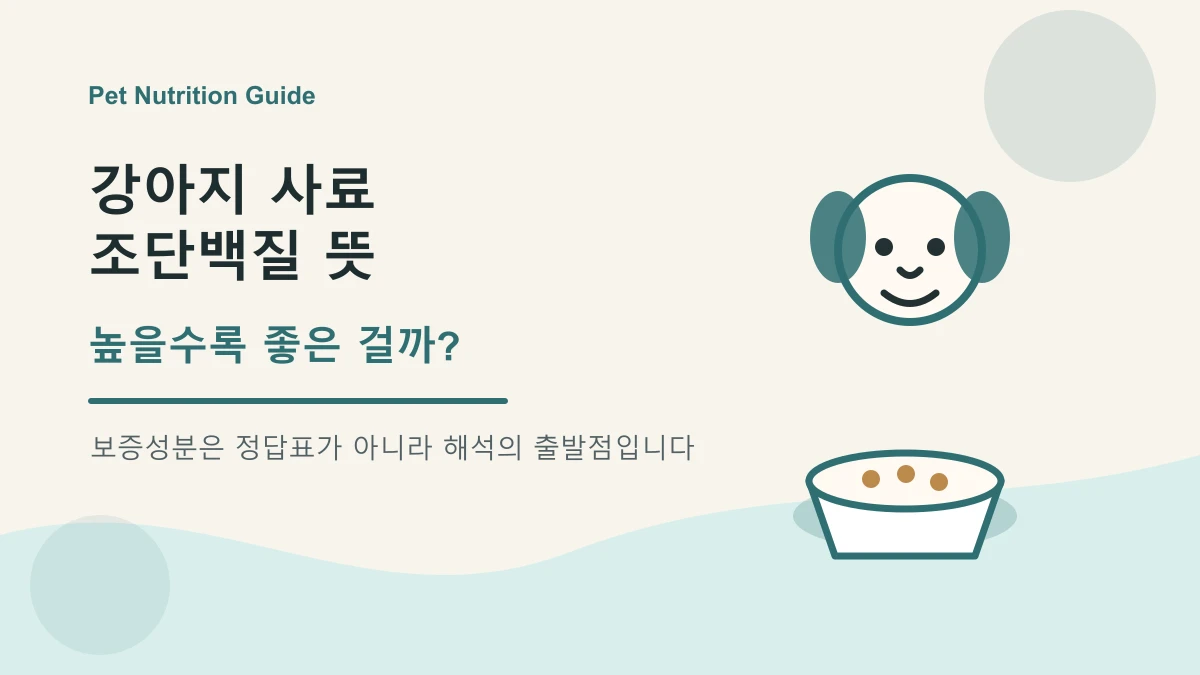
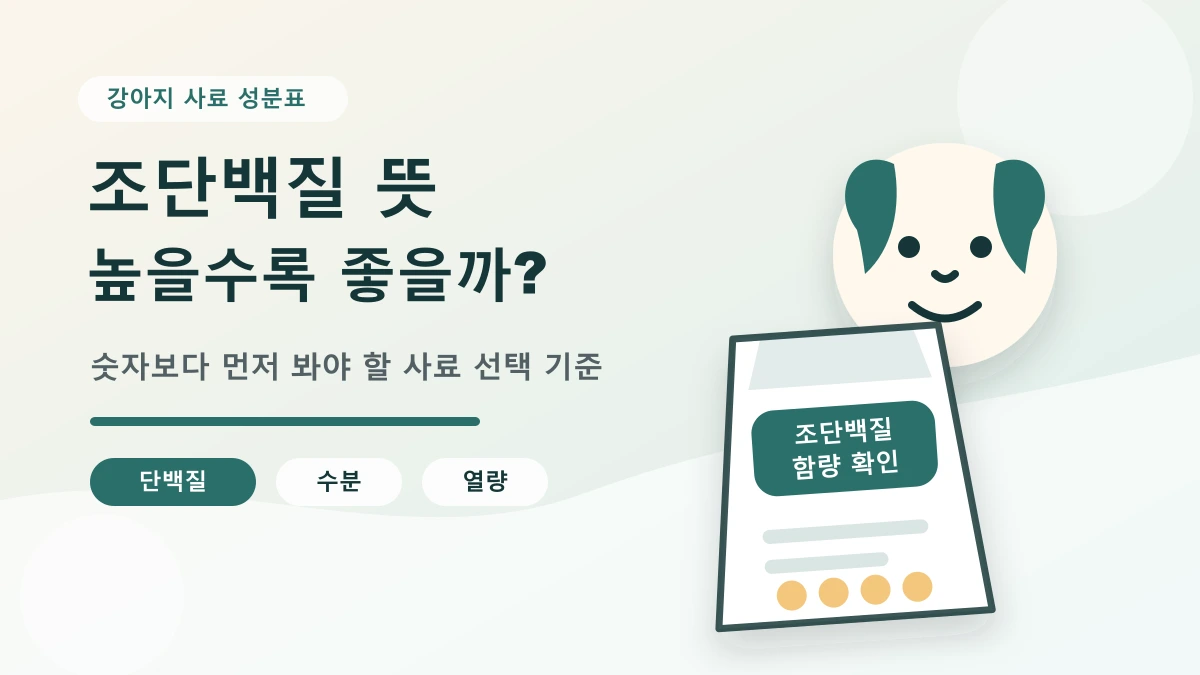
Improve crude protein article intros and thumbnails

diff --git a/src/content/blog/cat-food-crude-protein-meaning-beyond-percentage.md b/src/content/blog/cat-food-crude-protein-meaning-beyond-percentage.md
@@ -12,11 +12,11 @@ draft: false
 
 ## 도입부
 
-고양이 사료를 고를 때 보호자가 가장 먼저 보는 숫자 중 하나가 조단백질입니다. 고양이는 단백질이 중요한 동물이라는 말을 자주 듣기 때문에, 조단백질 함량이 높으면 더 좋은 사료처럼 느껴집니다. 실제로 단백질은 고양이의 근육, 피부, 털, 여러 신체 기능에 꼭 필요한 영양소입니다.
+고양이 사료를 고를 때 보호자의 눈은 자연스럽게 조단백질 숫자로 향합니다. 고양이는 단백질이 중요한 동물이라는 말을 자주 듣다 보니, 32%보다 38%가 더 좋아 보이고 습식 캔에 적힌 10% 안팎의 숫자는 괜히 부족해 보일 수 있습니다. 사료를 잘 고르고 싶은 마음이 클수록 숫자 하나에 마음이 흔들리기 쉽습니다.
 
-하지만 고양이 사료 조단백질 뜻을 제대로 이해하면 단백질 함량만 보고 사료를 고르는 것이 위험한 이유를 알 수 있습니다. 조단백질은 단백질 관련 성분을 분석해 표시한 비율이지, 사료 전체의 품질 점수는 아닙니다. 또 건식과 습식은 수분 함량이 크게 달라서 같은 기준으로 숫자를 비교하면 오해가 생기기 쉽습니다.
+하지만 고양이 사료 조단백질 뜻을 제대로 이해하면 단백질 함량만 보고 사료를 고르는 것이 왜 아쉬운 선택인지 보입니다. 조단백질은 단백질 관련 성분을 분석해 표시한 비율이지, 사료 전체의 품질 점수는 아닙니다. 또 건식과 습식은 수분 함량이 크게 달라서 같은 기준으로 숫자를 비교하면 오해가 생기기 쉽습니다.
 
-이 글은 건강한 고양이 보호자가 사료 라벨을 읽을 때 참고할 수 있는 일반 정보입니다. 신장 질환, 요로 문제, 당뇨, 비만, 반복 구토, 식욕 저하, 체중 감소가 있거나 장기 식단 변경이 필요하다면 보호자 판단만으로 고단백 또는 저단백 사료를 고르지 말고 수의사와 상담하세요.
+이 글에서는 고양이 사료 라벨에서 조단백질을 어떻게 읽어야 하는지, 그리고 수분·타우린·열량을 왜 함께 봐야 하는지 보호자 눈높이로 정리합니다. 건강한 고양이 보호자가 참고할 수 있는 일반 정보이며, 신장 질환, 요로 문제, 당뇨, 비만, 반복 구토, 식욕 저하, 체중 감소가 있거나 장기 식단 변경이 필요하다면 보호자 판단만으로 고단백 또는 저단백 사료를 고르지 말고 수의사와 상담하세요.
 
 > **한눈에 답변**
 > 고양이 사료의 조단백질은 단백질 관련 성분을 분석해 표시한 보증성분입니다.

diff --git a/src/content/blog/dog-food-crude-protein-meaning-high-protein.md b/src/content/blog/dog-food-crude-protein-meaning-high-protein.md
@@ -12,11 +12,11 @@ draft: false
 
 ## 도입부
 
-강아지 사료를 고르다 보면 조단백질 24%, 28%, 32%처럼 숫자가 먼저 눈에 들어옵니다. 단백질은 근육과 피부, 털, 여러 몸 기능에 필요한 영양소라서 보호자가 중요하게 보는 것은 자연스럽습니다. 그래서 조단백질 함량이 높으면 더 좋은 사료라고 느끼기 쉽습니다.
+사료 매대 앞에서 봉투 뒷면을 들여다보다 보면 이상하게 조단백질 숫자에 시선이 오래 머뭅니다. 24%, 28%, 32%처럼 숫자가 올라갈수록 더 든든해 보이고, 왠지 우리 강아지에게 더 좋은 선택일 것 같은 느낌이 들기 때문입니다. 특히 "고단백", "풍부한 단백질" 같은 문구가 함께 보이면 낮은 함량의 사료는 괜히 부족해 보이기도 합니다.
 
-하지만 강아지 사료 조단백질 뜻을 정확히 이해하면 답은 조금 달라집니다. 조단백질은 단백질의 "품질 점수"가 아니라, 일정한 분석 방법으로 계산한 단백질 관련 성분의 비율입니다. 숫자가 높다고 모든 강아지에게 맞는 사료라는 뜻은 아니고, 낮다고 바로 부족한 사료라는 뜻도 아닙니다.
+그런데 강아지 사료 조단백질 뜻을 정확히 알면 사료를 보는 기준이 조금 달라집니다. 조단백질은 단백질의 "품질 점수"가 아니라, 일정한 분석 방법으로 계산한 단백질 관련 성분의 비율입니다. 숫자가 높다고 모든 강아지에게 맞는 사료라는 뜻은 아니고, 낮다고 바로 부족한 사료라는 뜻도 아닙니다.
 
-이 글은 건강한 강아지의 일반적인 사료 선택 기준을 설명하는 정보입니다. 신장, 간, 췌장, 알레르기, 비만, 성장 문제처럼 질환이나 장기 식단 조절이 관련된 경우에는 보호자 판단만으로 고단백 또는 저단백 사료를 고르지 말고 수의사와 상담하는 것이 안전합니다.
+이 글에서는 보호자가 사료 봉투에서 조단백질을 볼 때 무엇을 믿고, 무엇은 한 번 더 따져봐야 하는지 정리합니다. 건강한 강아지의 일반적인 사료 선택 기준을 설명하는 정보이며, 신장, 간, 췌장, 알레르기, 비만, 성장 문제처럼 질환이나 장기 식단 조절이 관련된 경우에는 보호자 판단만으로 고단백 또는 저단백 사료를 고르지 말고 수의사와 상담하는 것이 안전합니다.
 
 > **한눈에 답변**
 > 강아지 사료의 조단백질은 사료 속 단백질 관련 성분을 분석해 표시한 보증성분입니다.